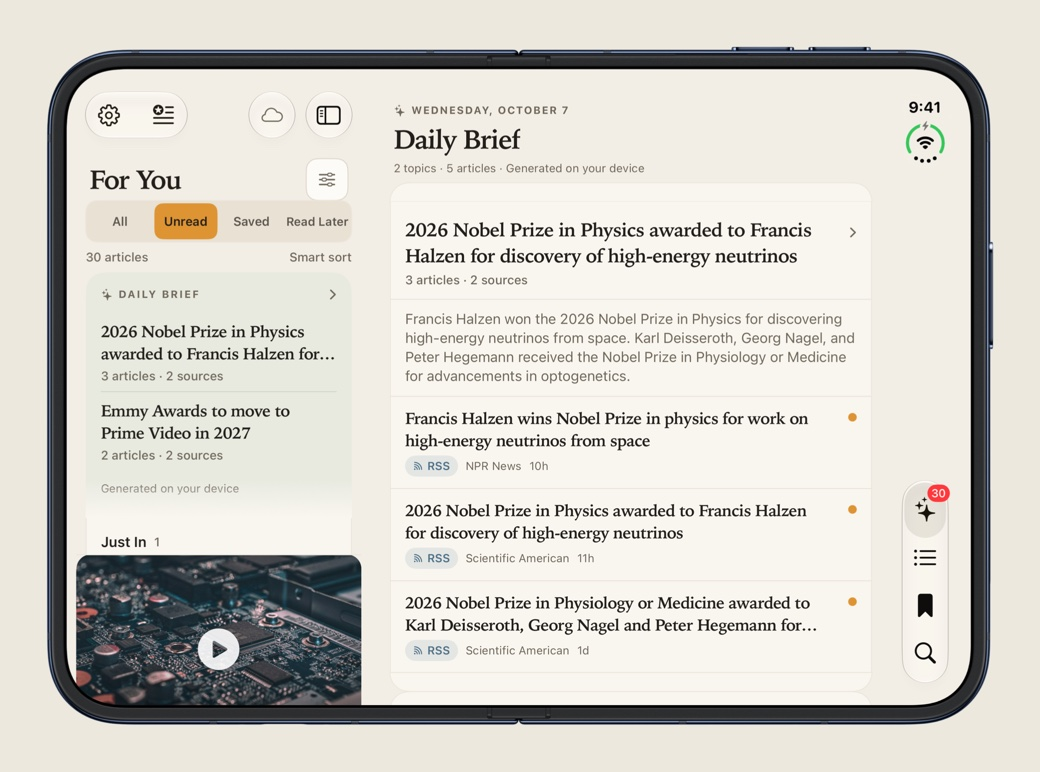
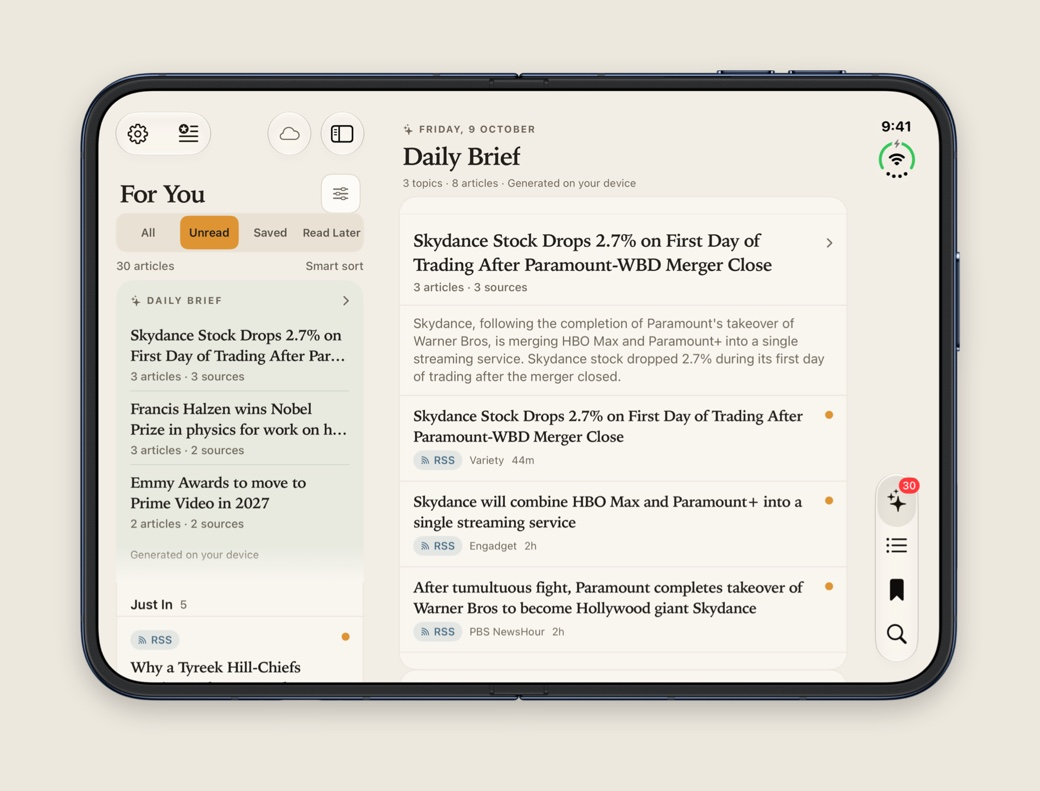
Site TechnoDaily 2.5 : captures en texte seulement (iPhone Duo fermé, iPhone Duo ouvert, app Mac), cinq langues
Les anciennes captures montraient des photos d'articles et des vignettes YouTube (question de droits, comme pour les
visuels de l'App Store) ; en japonais, le Duo ouvert montrait le lecteur avec des photos et une heure 12:43.
Nouvelles images tirées des captures « texte seul » de Claude Code (D-33, D-34), fond raccordé à chaque section ;
dimensions déclarées mises à jour ; description japonaise du Duo ouvert corrigée.

diff --git a/technodaily/index.html b/technodaily/index.html
@@ -292,7 +292,7 @@ footer{border-top:1px solid #E4DFD5;background:#EDE8DE}
 <p class="meta">14 jours gratuits pour un premier abonnement, puis 19,99 € par an, ou 49,99 € à vie.<br>Vos lectures ne regardent que vous.</p>
 <div class="dispo"><span class="l">DISPONIBLE SUR</span><span class="chip">iPhone</span><span class="chip">iPad</span><span class="chip">Mac</span><span class="chip">Apple Vision Pro</span></div>
 </div>
-<figure class="shot"><picture><source media="(min-width: 641px)" srcset="/technodaily/img/trois-fr.jpg" width="1100" height="640"><img src="/technodaily/img/duo-ferme-fr.jpg" alt="TechnoDaily : l&#x27;écran Pour vous et le Résumé du jour" width="380" height="519" decoding="async"></picture></figure>
+<figure class="shot"><picture><source media="(min-width: 641px)" srcset="/technodaily/img/trois-fr.jpg" width="1100" height="640"><img src="/technodaily/img/duo-ferme-fr.jpg" alt="TechnoDaily : l&#x27;écran Pour vous et le Résumé du jour" width="380" height="507" decoding="async"></picture></figure>
 </section>
 <section class="sources" aria-label="Vos sources">
 <span class="lab">Vos sources</span>
@@ -310,7 +310,7 @@ footer{border-top:1px solid #E4DFD5;background:#EDE8DE}
 <ul class="dots"><li>Le Résumé du jour : les sujets dont parlent plusieurs de vos sources, en général trois, avec leurs articles</li><li>Avec Apple Intelligence, un paragraphe de synthèse généré sur l&#x27;appareil ; sans, le Résumé du jour est là quand même</li><li>Une notification le matin, à l&#x27;heure de votre choix : « 3 sujets ce matin »</li><li>« Pas intéressé », « Cet article n&#x27;a rien à faire ici », « Exclure du brief » : vos corrections, sur tous vos appareils</li></ul>
 <p class="small">Résumés : appareil compatible Apple Intelligence.</p>
 </div>
-<figure class="shot"><img src="/technodaily/img/duo-ouvert-fr.jpg" alt="TechnoDaily sur iPhone Duo ouvert : Pour vous à gauche, le Résumé du jour en grand à droite" width="520" height="386" loading="lazy" decoding="async"></figure>
+<figure class="shot"><img src="/technodaily/img/duo-ouvert-fr.jpg" alt="TechnoDaily sur iPhone Duo ouvert : Pour vous à gauche, le Résumé du jour en grand à droite" width="520" height="395" loading="lazy" decoding="async"></figure>
 </div></div></section>
 <section id="sujets" class="band"><div class="wrap"><div class="split">
 <div class="dcard" aria-hidden="true">
@@ -340,7 +340,7 @@ footer{border-top:1px solid #E4DFD5;background:#EDE8DE}
 <ul class="dots"><li>⌘1 à ⌘4 : Pour vous, Sources, Enregistrés, Rechercher</li><li>⌘R pour actualiser, ⌘F pour chercher, ⌘, pour les réglages</li><li>Un article dans sa propre fenêtre (⇧⌘N)</li><li>macOS 26.1 ou plus récent</li></ul>
[1 lines of base64/hex data omitted]
 </div>
-<figure class="shot"><img src="/technodaily/img/mac-fr.jpg" alt="L&#x27;app Mac TechnoDaily : Pour vous et le Résumé du jour" width="550" height="360" loading="lazy" decoding="async"></figure>
+<figure class="shot"><img src="/technodaily/img/mac-fr.jpg" alt="L&#x27;app Mac TechnoDaily : Pour vous et le Résumé du jour" width="550" height="377" loading="lazy" decoding="async"></figure>
 </div></div></section>
 <section id="confidentialite" class="dark"><div class="inner">
 <p class="kicker">Confidentialité</p>

diff --git a/technodaily/es/index.html b/technodaily/es/index.html
@@ -292,7 +292,7 @@ footer{border-top:1px solid #E4DFD5;background:#EDE8DE}
 <p class="meta">14 días gratis con tu primera suscripción, después 19,99 € al año, o 49,99 € una vez.<br>Tus lecturas solo te incumben a ti.</p>
 <div class="dispo"><span class="l">DISPONIBLE EN</span><span class="chip">iPhone</span><span class="chip">iPad</span><span class="chip">Mac</span><span class="chip">Apple Vision Pro</span></div>
 </div>
-<figure class="shot"><picture><source media="(min-width: 641px)" srcset="/technodaily/img/trois-es.jpg" width="1100" height="640"><img src="/technodaily/img/duo-ferme-es.jpg" alt="TechnoDaily: la pantalla Para ti y el Resumen del día" width="380" height="519" decoding="async"></picture></figure>
+<figure class="shot"><picture><source media="(min-width: 641px)" srcset="/technodaily/img/trois-es.jpg" width="1100" height="640"><img src="/technodaily/img/duo-ferme-es.jpg" alt="TechnoDaily: la pantalla Para ti y el Resumen del día" width="380" height="507" decoding="async"></picture></figure>
 </section>
 <section class="sources" aria-label="Tus fuentes">
 <span class="lab">Tus fuentes</span>
@@ -310,7 +310,7 @@ footer{border-top:1px solid #E4DFD5;background:#EDE8DE}
 <ul class="dots"><li>El Resumen del día: los temas de los que hablan varias de tus fuentes, normalmente tres, con sus artículos</li><li>Con Apple Intelligence, un párrafo de síntesis generado en el dispositivo; sin ella, el Resumen del día sigue ahí</li><li>Una notificación por la mañana, a la hora que elijas: «3 temas esta mañana»</li><li>«No me interesa», «Este artículo no pinta nada aquí», «Excluir del resumen»: tus correcciones, en todos tus dispositivos</li></ul>
 <p class="small">Resúmenes: dispositivo compatible con Apple Intelligence.</p>
 </div>
-<figure class="shot"><img src="/technodaily/img/duo-ouvert-es.jpg" alt="TechnoDaily en el iPhone Duo abierto: Para ti a la izquierda, el Resumen del día en grande a la derecha" width="520" height="386" loading="lazy" decoding="async"></figure>
+<figure class="shot"><img src="/technodaily/img/duo-ouvert-es.jpg" alt="TechnoDaily en el iPhone Duo abierto: Para ti a la izquierda, el Resumen del día en grande a la derecha" width="520" height="395" loading="lazy" decoding="async"></figure>
 </div></div></section>
 <section id="sujets" class="band"><div class="wrap"><div class="split">
 <div class="dcard" aria-hidden="true">
@@ -340,7 +340,7 @@ footer{border-top:1px solid #E4DFD5;background:#EDE8DE}
 <ul class="dots"><li>⌘1 a ⌘4: Para ti, Fuentes, Guardados, Buscar</li><li>⌘R para actualizar, ⌘F para buscar, ⌘, para los ajustes</li><li>Un artículo en su propia ventana (⇧⌘N)</li><li>macOS 26.1 o posterior</li></ul>
[1 lines of base64/hex data omitted]
 </div>
-<figure class="shot"><img src="/technodaily/img/mac-es.jpg" alt="La app de Mac de TechnoDaily: Para ti y el Resumen del día" width="550" height="360" loading="lazy" decoding="async"></figure>
+<figure class="shot"><img src="/technodaily/img/mac-es.jpg" alt="La app de Mac de TechnoDaily: Para ti y el Resumen del día" width="550" height="377" loading="lazy" decoding="async"></figure>
 </div></div></section>
 <section id="confidentialite" class="dark"><div class="inner">
 <p class="kicker">Privacidad</p>

diff --git a/technodaily/en/index.html b/technodaily/en/index.html
@@ -292,7 +292,7 @@ footer{border-top:1px solid #E4DFD5;background:#EDE8DE}
 <p class="meta">14 days free for a first subscription, then $17.99 a year, or $44.99 once.<br>Your reading is nobody&#x27;s business but yours.</p>
 <div class="dispo"><span class="l">AVAILABLE ON</span><span class="chip">iPhone</span><span class="chip">iPad</span><span class="chip">Mac</span><span class="chip">Apple Vision Pro</span></div>
 </div>
-<figure class="shot"><picture><source media="(min-width: 641px)" srcset="/technodaily/img/trois-en.jpg" width="1100" height="640"><img src="/technodaily/img/duo-ferme-en.jpg" alt="TechnoDaily: the For You screen and the Daily Brief" width="380" height="519" decoding="async"></picture></figure>
+<figure class="shot"><picture><source media="(min-width: 641px)" srcset="/technodaily/img/trois-en.jpg" width="1100" height="640"><img src="/technodaily/img/duo-ferme-en.jpg" alt="TechnoDaily: the For You screen and the Daily Brief" width="380" height="507" decoding="async"></picture></figure>
 </section>
 <section class="sources" aria-label="Your sources">
 <span class="lab">Your sources</span>
@@ -310,7 +310,7 @@ footer{border-top:1px solid #E4DFD5;background:#EDE8DE}
 <ul class="dots"><li>The Daily Brief: the topics several of your sources are covering, usually three, with their articles</li><li>With Apple Intelligence, a summary paragraph generated on the device; without it, the Daily Brief is still there</li><li>A morning notification at the time you choose: “3 topics this morning”</li><li>“Not interested”, “This doesn&#x27;t belong here”, “Exclude from brief”: your corrections, on all your devices</li></ul>
 <p class="small">Summaries: Apple Intelligence-compatible device.</p>
 </div>
-<figure class="shot"><img src="/technodaily/img/duo-ouvert-en.jpg" alt="TechnoDaily on iPhone Duo, open: For You on the left, the Daily Brief full size on the right" width="520" height="386" loading="lazy" decoding="async"></figure>
+<figure class="shot"><img src="/technodaily/img/duo-ouvert-en.jpg" alt="TechnoDaily on iPhone Duo, open: For You on the left, the Daily Brief full size on the right" width="520" height="395" loading="lazy" decoding="async"></figure>
 </div></div></section>
 <section id="sujets" class="band"><div class="wrap"><div class="split">
 <div class="dcard" aria-hidden="true">
@@ -340,7 +340,7 @@ footer{border-top:1px solid #E4DFD5;background:#EDE8DE}
 <ul class="dots"><li>⌘1 to ⌘4: For You, Sources, Saved, Search</li><li>⌘R to refresh, ⌘F to search, ⌘, for settings</li><li>An article in its own window (⇧⌘N)</li><li>macOS 26.1 or later</li></ul>
[1 lines of base64/hex data omitted]
 </div>
-<figure class="shot"><img src="/technodaily/img/mac-en.jpg" alt="The TechnoDaily Mac app: For You and the Daily Brief" width="550" height="360" loading="lazy" decoding="async"></figure>
+<figure class="shot"><img src="/technodaily/img/mac-en.jpg" alt="The TechnoDaily Mac app: For You and the Daily Brief" width="550" height="377" loading="lazy" decoding="async"></figure>
 </div></div></section>
 <section id="confidentialite" class="dark"><div class="inner">
 <p class="kicker">Privacy</p>

diff --git a/technodaily/ja/index.html b/technodaily/ja/index.html
@@ -293,7 +293,7 @@ footer{border-top:1px solid #E4DFD5;background:#EDE8DE}
 <p class="meta">はじめての年額プランは14日間無料。その後は年額3,000円、または買い切り7,000円。<br>何を読むかは、あなただけのこと。</p>
 <div class="dispo"><span class="l">対応デバイス</span><span class="chip">iPhone</span><span class="chip">iPad</span><span class="chip">Mac</span><span class="chip">Apple Vision Pro</span></div>
 </div>
-<figure class="shot"><picture><source media="(min-width: 641px)" srcset="/technodaily/img/trois-ja.jpg" width="1100" height="640"><img src="/technodaily/img/duo-ferme-ja.jpg" alt="TechnoDaily：「あなたへ」画面と「今日のまとめ」" width="380" height="519" decoding="async"></picture></figure>
+<figure class="shot"><picture><source media="(min-width: 641px)" srcset="/technodaily/img/trois-ja.jpg" width="1100" height="640"><img src="/technodaily/img/duo-ferme-ja.jpg" alt="TechnoDaily：「あなたへ」画面と「今日のまとめ」" width="380" height="507" decoding="async"></picture></figure>
 </section>
 <section class="sources" aria-label="あなたのソース">
 <span class="lab">あなたのソース</span>
@@ -311,7 +311,7 @@ footer{border-top:1px solid #E4DFD5;background:#EDE8DE}
 <ul class="dots"><li>「今日のまとめ」：複数のソースが取り上げているトピック（通常は3つ）を、記事とともに</li><li>Apple Intelligence対応デバイスでは、要約の段落をデバイス上で生成。なくても「今日のまとめ」はそのまま使えます</li><li>朝の通知：お好みの時刻に「今朝のトピックは3件」</li><li>「興味なし」「この記事はここに合わない」「ブリーフィングから除外」：フィードバックはすべてのデバイスで同期</li></ul>
 <p class="small">要約：Apple Intelligence対応デバイスが必要です。</p>
 </div>
-<figure class="shot"><img src="/technodaily/img/duo-ouvert-ja.jpg" alt="開いた iPhone Duo の TechnoDaily：左にリスト、右に記事の本文" width="520" height="386" loading="lazy" decoding="async"></figure>
+<figure class="shot"><img src="/technodaily/img/duo-ouvert-ja.jpg" alt="開いた iPhone Duo の TechnoDaily：左に「あなたへ」、右に「今日のまとめ」を大きく表示" width="520" height="395" loading="lazy" decoding="async"></figure>
 </div></div></section>
 <section id="sujets" class="band"><div class="wrap"><div class="split">
 <div class="dcard" aria-hidden="true">
@@ -341,7 +341,7 @@ footer{border-top:1px solid #E4DFD5;background:#EDE8DE}
 <ul class="dots"><li>⌘1〜⌘4：あなたへ、ソース、保存済み、検索</li><li>⌘Rで更新、⌘Fで検索、⌘,で設定</li><li>記事を別ウインドウで表示（⇧⌘N）</li><li>macOS 26.1以降</li></ul>
[1 lines of base64/hex data omitted]
 </div>
-<figure class="shot"><img src="/technodaily/img/mac-ja.jpg" alt="TechnoDaily の Mac アプリ：「あなたへ」と「今日のまとめ」" width="550" height="362" loading="lazy" decoding="async"></figure>
+<figure class="shot"><img src="/technodaily/img/mac-ja.jpg" alt="TechnoDaily の Mac アプリ：「あなたへ」と「今日のまとめ」" width="550" height="377" loading="lazy" decoding="async"></figure>
 </div></div></section>
 <section id="confidentialite" class="dark"><div class="inner">
 <p class="kicker">プライバシー</p>

diff --git a/technodaily/zh/index.html b/technodaily/zh/index.html
@@ -292,7 +292,7 @@ footer{border-top:1px solid #E4DFD5;background:#EDE8DE}
 <p class="meta">首次开通年度订阅可免费试用 14 天。之后每年 ¥128，或一次性买断 ¥298。<br>你的阅读只属于你。</p>
 <div class="dispo"><span class="l">适用于</span><span class="chip">iPhone</span><span class="chip">iPad</span><span class="chip">Mac</span><span class="chip">Apple Vision Pro</span></div>
 </div>
-<figure class="shot"><picture><source media="(min-width: 641px)" srcset="/technodaily/img/trois-zh.jpg" width="1100" height="640"><img src="/technodaily/img/duo-ferme-zh.jpg" alt="TechnoDaily：“为你推荐”页面与每日摘要" width="380" height="519" decoding="async"></picture></figure>
+<figure class="shot"><picture><source media="(min-width: 641px)" srcset="/technodaily/img/trois-zh.jpg" width="1100" height="640"><img src="/technodaily/img/duo-ferme-zh.jpg" alt="TechnoDaily：“为你推荐”页面与每日摘要" width="380" height="507" decoding="async"></picture></figure>
 </section>
 <section class="sources" aria-label="你的来源">
 <span class="lab">你的来源</span>
@@ -308,7 +308,7 @@ footer{border-top:1px solid #E4DFD5;background:#EDE8DE}
 <ul class="dots"><li>“每日摘要”：多个来源共同报道的话题（通常为 3 个）及其文章</li><li>不需要 Apple Intelligence 也能使用“每日摘要”</li><li>晨间通知：在你选择的时间提醒你“今晨 3 个话题”</li><li>“不感兴趣”“这篇文章不属于此主题”“从简报中排除”：你的纠正在所有设备间同步</li></ul>
 <p class="small">设备端 AI 摘要需要支持 Apple Intelligence、且该功能在你所在地区可用的设备。</p>
 </div>
-<figure class="shot"><img src="/technodaily/img/duo-ouvert-zh.jpg" alt="展开的 iPhone Duo 上的 TechnoDaily：左侧为你推荐，右侧每日摘要大屏呈现" width="520" height="386" loading="lazy" decoding="async"></figure>
+<figure class="shot"><img src="/technodaily/img/duo-ouvert-zh.jpg" alt="展开的 iPhone Duo 上的 TechnoDaily：左侧为你推荐，右侧每日摘要大屏呈现" width="520" height="395" loading="lazy" decoding="async"></figure>
 </div></div></section>
 <section id="sujets" class="band"><div class="wrap"><div class="split">
 <div class="dcard" aria-hidden="true">
@@ -337,7 +337,7 @@ footer{border-top:1px solid #E4DFD5;background:#EDE8DE}
 <ul class="dots"><li>⌘1 至 ⌘4：为你推荐、来源、已保存、搜索</li><li>⌘R 刷新，⌘F 搜索，⌘, 打开设置</li><li>文章可在独立窗口中打开（⇧⌘N）</li><li>macOS 26.1 及更高版本</li></ul>
[1 lines of base64/hex data omitted]
 </div>
-<figure class="shot"><img src="/technodaily/img/mac-zh.jpg" alt="TechnoDaily Mac 版：为你推荐与每日摘要" width="550" height="362" loading="lazy" decoding="async"></figure>
+<figure class="shot"><img src="/technodaily/img/mac-zh.jpg" alt="TechnoDaily Mac 版：为你推荐与每日摘要" width="550" height="377" loading="lazy" decoding="async"></figure>
 </div></div></section>
 <section id="confidentialite" class="dark"><div class="inner">
 <p class="kicker">隐私</p>
